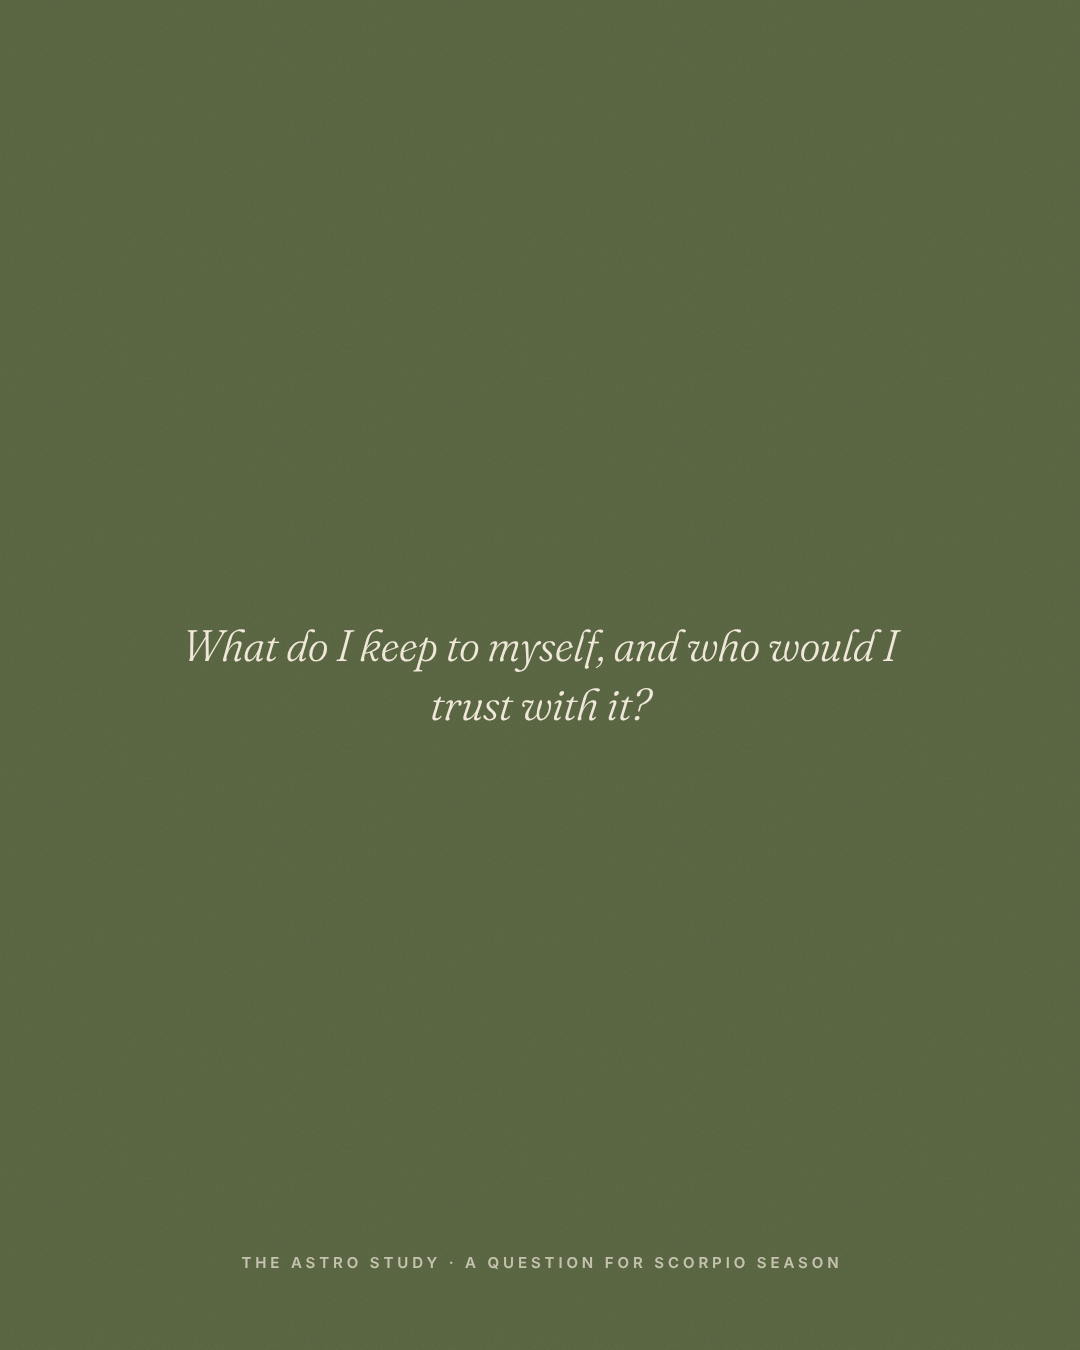
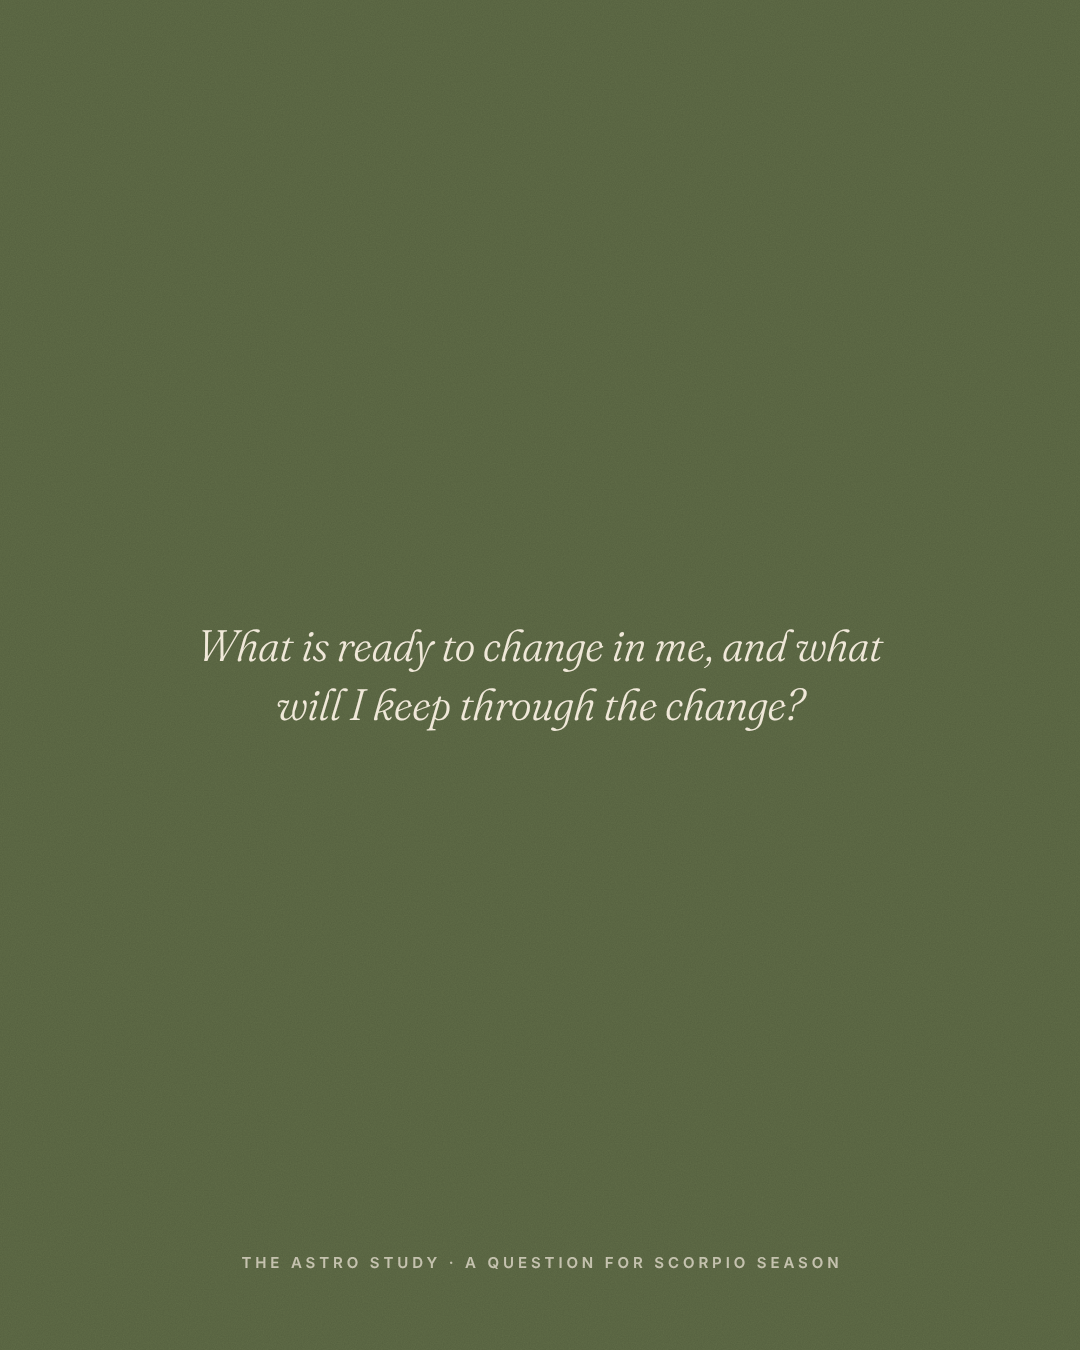
Posts checked against the AGS definition library: a trine is a third of the zodiac, flow and mutual reinforcement, not luck; signs described as how a planet works, houses as context; no quality the library rules out (Scorpio vengeful or secretive, the 8th house as death, Pisces without boundaries, t
Claude-Session: https://claude.ai/code/session_018jKMK9BPQVbgBpXXSDVL8J

Changed region(s): [[0.1528, 0.4667, 0.825, 0.56]]

diff --git a/media/posts/word-of-the-week-trine/caption.md b/media/posts/word-of-the-week-trine/caption.md
@@ -4,16 +4,18 @@ Post on: Any week
 
 ## Alt text
 
-Cream on dark red: Word of the week, a drawn triangle, and the word Trine in a tall narrow serif, with its meaning: an angle of 120° between two planets, two parts of you that work together without effort.
+Cream on dark red: Word of the week, a drawn triangle, and the word Trine in a tall narrow serif, with its meaning: an angle of 120°, a third of the zodiac, usually between signs of the same element: two parts of you that flow together and reinforce each other.
 
 ## Caption
 
 Word of the week: trine △
 
-A trine is an angle of 120° between two planets, usually four signs apart and in the same element. In a birth chart it shows two parts of you that work together without effort: a natural ease, often a talent.
+A trine is an angle of 120° between two planets: a third of the zodiac. It usually joins two signs of the same element, like Aries and Leo, or Cancer and Pisces.
 
-Astrologers count it the easiest of the aspects. Its one risk is being taken for granted.
+In a birth chart it connects two parts of you through flow: they support and reinforce each other, and each keeps its own nature.
 
-Do you have a trine you lean on without noticing?
+A trine isn't luck. Ease is not a guarantee, and flow is not passivity: left unnoticed, a trine is support you take for granted; used on purpose, it's a strength you can build on.
+
+Which trine in your chart do you lean on without noticing?
 
 #astrology #aspects #trine #learnastrology

diff --git a/media/posts/the-twelve-houses-08/caption.md b/media/posts/the-twelve-houses-08/caption.md
@@ -4,13 +4,15 @@ Post on: Any week; the first of a series of twelve, one house at a time
 
 ## Alt text
 
-The Scorpio glyph laid in mosaic tiles, warmed to amber and brown. In yellow: 08, The twelve houses, the 8th house. Intimacy and trust: what you share with others or owe them, and the closeness that changes you.
+The Scorpio glyph laid in mosaic tiles, warmed to amber and brown. In yellow: 08, The twelve houses, the 8th house. Intimacy and trust, what you share and owe with others, and the changes that renew you.
 
 ## Caption
 
 The twelve houses · 08
 
-The 8th house comes just after the house of partners. Tradition gave it death and inheritance; astrologers today read it as intimacy and trust, and what you share with others or owe them: joint money, debts, the closeness that changes you.
+The 8th house comes just after the house of partners. A house is a context: the part of life where a planet works. The 8th is the context of intimacy and trust, of what you share with others or owe them (joint resources, inheritance, shared obligations), and of the transformations that renew you.
+
+It is not a house of death or catastrophe: transformation is not destruction, and depth is not obsession.
 
 It is Scorpio's natural house. Which sign sits on the cusp of your 8th house? You need your birth time to know.
 

diff --git a/media/posts/myth-busting-scorpios-are-vengeful/caption.md b/media/posts/myth-busting-scorpios-are-vengeful/caption.md
@@ -4,14 +4,16 @@ Post on: Before 21 November (Scorpio season)
 
 ## Alt text
 
-Cream on near-black: “scorpios are vengeful.” not quite. Small print: Scorpio remembers, because it takes trust seriously. What looks like a grudge is often a hurt that was never acknowledged.
+Cream on near-black: “scorpios are vengeful.” not quite. Small print: Vengefulness isn’t part of Scorpio. Scorpio is depth and the search for truth: intensity is not aggression, depth is not secrecy.
 
 ## Caption
 
 “Scorpios are vengeful.” Not quite.
 
-Scorpio remembers, because it takes trust seriously. What looks like a grudge is often a hurt that was never acknowledged, and the rest of the chart says far more about how someone handles it.
+Vengefulness isn't part of Scorpio's meaning, and neither are jealousy, manipulation or secrecy. Scorpio is depth: the search for what lies beneath appearances, transformation, regeneration, resilience.
 
-One sign never sums up a person: the Sun is one placement among many.
+Intensity is not aggression. Depth is not secrecy. Investigation is not manipulation.
+
+And a sign never acts on its own: it colours how a planet works, in a house, in a whole chart. One sign never sums up a person.
 
 #scorpio #scorpioseason #astrology #astrologymyths

diff --git a/media/posts/2026-11-22-sagittarius-season/caption.md b/media/posts/2026-11-22-sagittarius-season/caption.md
@@ -12,8 +12,8 @@ Sagittarius season begins · Sunday 22 November
 
 The Sun moves from Scorpio into Sagittarius around 07:20 UTC (08:20 in Paris) and stays there until 21 December.
 
-Sagittarius is the ninth sign of the zodiac: mutable fire, ruled by Jupiter. In a birth chart it shows where you look for meaning, freedom and a wider view: the part of life where you want to explore, learn and believe.
+Sagittarius is the ninth sign of the zodiac: mutable fire, ruled by Jupiter. A planet in Sagittarius works by exploring, learning and looking for meaning: it takes the wider view and connects ideas into a whole. Exploring is not recklessness, and vision is not dogmatism.
 
-Look for ♐ in your chart: the house it falls in is where that search happens for you.
+Look for ♐ in your chart: every planet you have there takes on this way of working.
 
 #sagittariusseason #sagittarius #astrology #zodiac

diff --git a/media/posts/myth-why-is-scorpio-a-scorpion/caption.md b/media/posts/myth-why-is-scorpio-a-scorpion/caption.md
@@ -14,6 +14,6 @@ In one Greek telling, Orion the hunter boasted that he would kill every animal o
 
 Both were set among the stars, on opposite sides of the sky, and they are still kept apart: as Scorpius rises in the east, Orion sets in the west.
 
-In astrology, Scorpio is the eighth sign: fixed water, ruled by Pluto in modern astrology and by Mars in the tradition. The Sun crosses it from about 23 October to 21 November. In a birth chart it shows where you go deep, hold on, and want the truth rather than the surface.
+In astrology, Scorpio is the eighth sign: fixed water, ruled by Pluto in modern astrology and by Mars in the tradition. The Sun crosses it from about 23 October to 21 November. In a birth chart, a planet in Scorpio works with depth and intensity: it looks for the truth beneath appearances, and it can transform and regenerate.
 
 #scorpio #scorpioseason #mythology #astrology

diff --git a/media/posts/2026-11-09-new-moon-in-scorpio/caption.md b/media/posts/2026-11-09-new-moon-in-scorpio/caption.md
@@ -13,10 +13,10 @@ New Moon in Scorpio · Monday 9 November, 07:02 UTC
 
 The Moon catches up with the Sun at 16°53′ Scorpio. A new moon is the dark start of the lunar month: the Moon passes between us and the Sun, and its lit side faces away from us.
 
-Scorpio is the sign of depth: where you go deep, hold on, and want the truth rather than the surface. A good week to write with these:
+Scorpio colours whatever it touches with depth: it looks beneath the surface for what is really there, and changes form without losing what matters. A good week to write with these:
 
 1. What am I ready to look at honestly?
-2. What am I holding on to that I could set down?
+2. What lies beneath what I say I want?
 3. Whom do I trust, and how did they earn it?
 
 Then write one intention. Keep it short, and keep it somewhere you'll see it when the Moon is full, on 24 November.

diff --git a/media/posts/myth-why-is-sagittarius-a-centaur/caption.md b/media/posts/myth-why-is-sagittarius-a-centaur/caption.md
@@ -14,6 +14,6 @@ The archer is older than the Greeks. In Babylon, the god Pabilsag was carved on 
 
 The Greeks kept the bow and the horse: a centaur, his arrow drawn towards the heart of the Scorpion, next to him in the sky. Some said he was Chiron, the wise centaur who taught heroes; others gave Chiron a constellation of his own, the Centaur.
 
-In astrology, Sagittarius is the ninth sign: mutable fire, ruled by Jupiter, crossed by the Sun from about 22 November to 21 December. In a birth chart it shows where you look for meaning, freedom and a wider view.
+In astrology, Sagittarius is the ninth sign: mutable fire, ruled by Jupiter, crossed by the Sun from about 22 November to 21 December. A planet in Sagittarius works by exploring, learning and looking for meaning.
 
 #sagittarius #sagittariusseason #mythology #astrology

diff --git a/media/posts/sun-sign-vs-moon-sign/caption.md b/media/posts/sun-sign-vs-moon-sign/caption.md
@@ -10,9 +10,11 @@ White on dark red corduroy: SUN SIGN, what drives you, vs MOON SIGN, what soothe
 
 Sun sign vs Moon sign
 
-Your Sun sign is the one horoscopes use. Astrologers read it as your core purpose and the way you shine: what you are trying to become.
+Your Sun sign is the one horoscopes use. The Sun organizes your identity, vitality and purpose: what gives you direction, and how you express who you are.
 
-Your Moon sign shows what you need to feel safe: your moods, your instincts, the comfort you reach for.
+The Moon regulates how you process feelings: what you need to feel secure, how you bond, and the habits that steady you.
+
+The sign each one is in colours how it does that.
 
 Same chart, two different questions. Which one do you recognise yourself in more?
 

diff --git a/media/posts/guess-the-sign-pisces/caption.md b/media/posts/guess-the-sign-pisces/caption.md
@@ -14,6 +14,6 @@ Which sign is this? Guess in the comments before you read on.
 .
 .
 
-Pisces ♓: two fish, tied together. Pisces is the twelfth and last sign of the zodiac, mutable water, ruled by Neptune in modern astrology and by Jupiter in the tradition. In a birth chart it shows where your edges soften: where you imagine, empathise and let go.
+Pisces ♓: two fish, tied together. Pisces is the twelfth and last sign of the zodiac, mutable water, ruled by Neptune in modern astrology and by Jupiter in the tradition. A planet in Pisces works through imagination, empathy and compassion: it senses how everything connects. Empathy is not a lack of boundaries.
 
 #pisces #astrology #zodiacquiz #guessthesign

diff --git a/media/posts/2026-11-24-full-moon-in-gemini/caption.md b/media/posts/2026-11-24-full-moon-in-gemini/caption.md
@@ -13,7 +13,7 @@ Full Moon in Gemini · Tuesday 24 November, 14:53 UTC
 
 The Moon stands opposite the Sun, at 2°20′ Gemini, and its whole lit face turns towards us. The new moon of 9 November began this cycle; the full moon is its turning point.
 
-Gemini is where you are curious and quick: questions, words, connections, more than one interest at a time. Three questions to write with:
+Gemini colours things with curiosity: it compares, connects, exchanges and keeps several perspectives in play at once. Three questions to write with:
 
 1. Which conversation have I been putting off?
 2. Which idea have I outgrown?

diff --git a/media/posts/journal-prompt-scorpio-season/caption.md b/media/posts/journal-prompt-scorpio-season/caption.md
@@ -4,12 +4,12 @@ Post on: Between two picture posts, in Scorpio season
 
 ## Alt text
 
-One line in cream italic on olive green: What do I keep to myself, and who would I trust with it?
+One line in cream italic on olive green: What is ready to change in me, and what will I keep through the change?
 
 ## Caption
 
 A question for Scorpio season, to write with for five minutes. No one has to read it.
 
-What do I keep to myself, and who would I trust with it?
+What is ready to change in me, and what will I keep through the change?
 
 #journalprompts #scorpioseason #selfreflection #astrology
